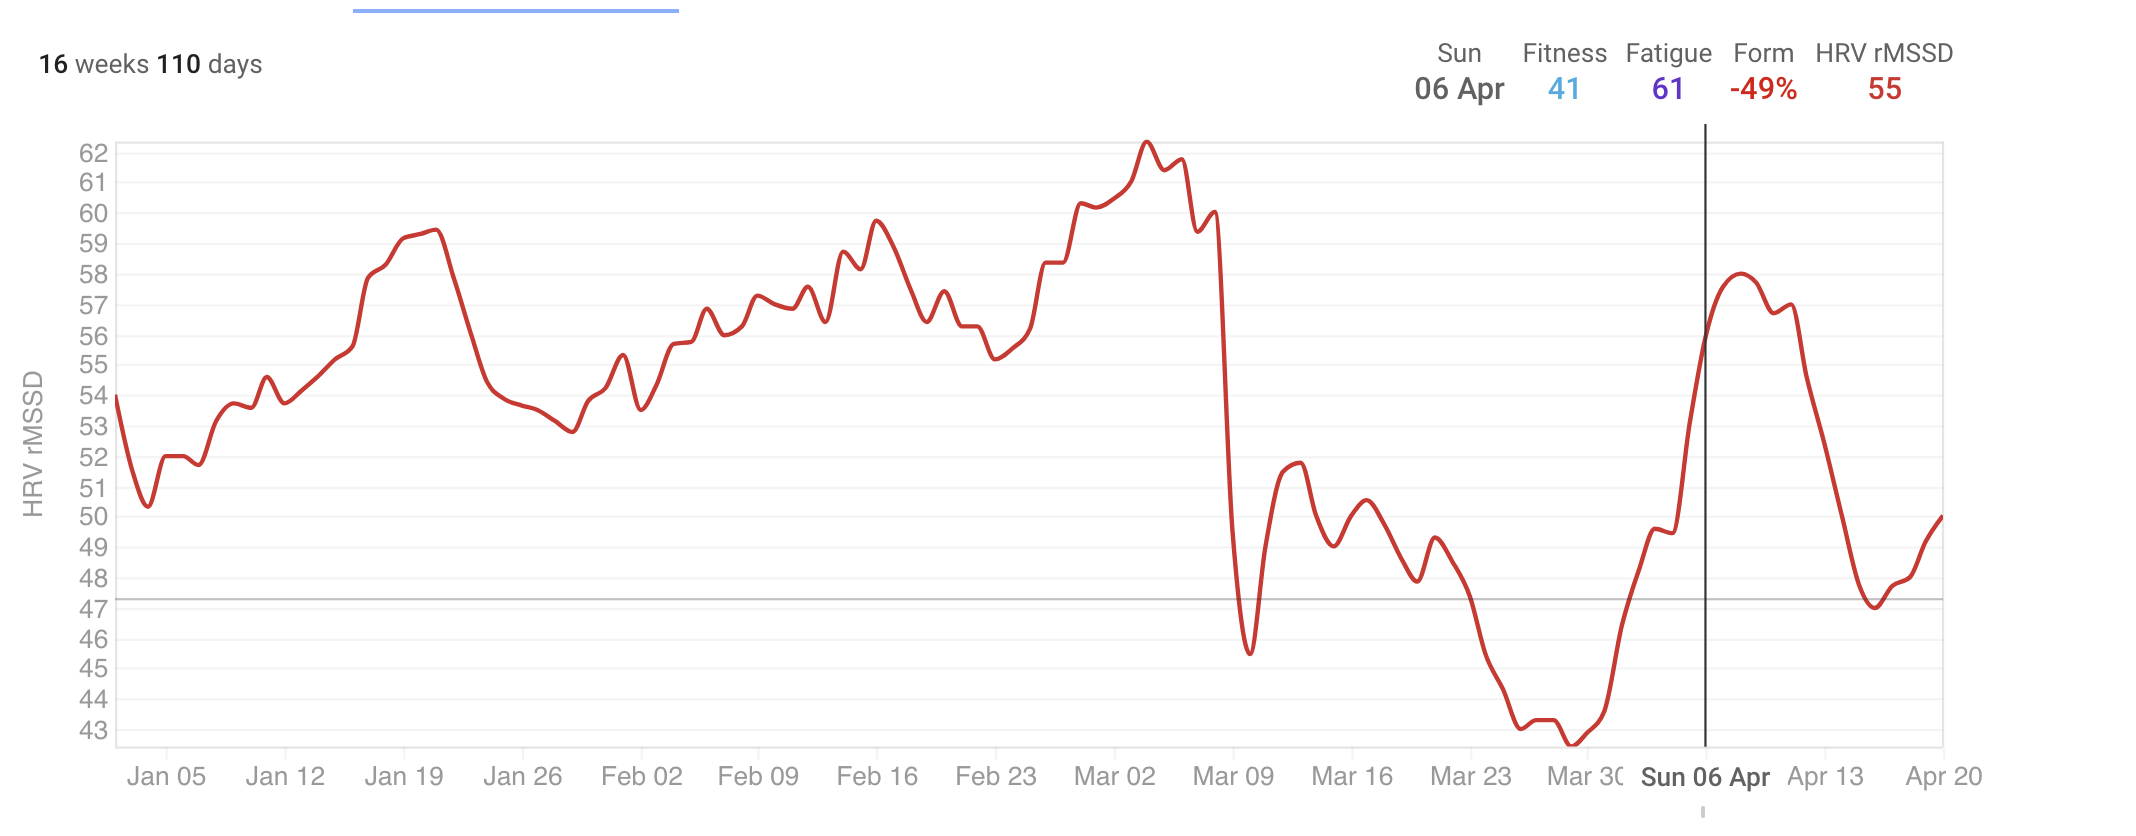
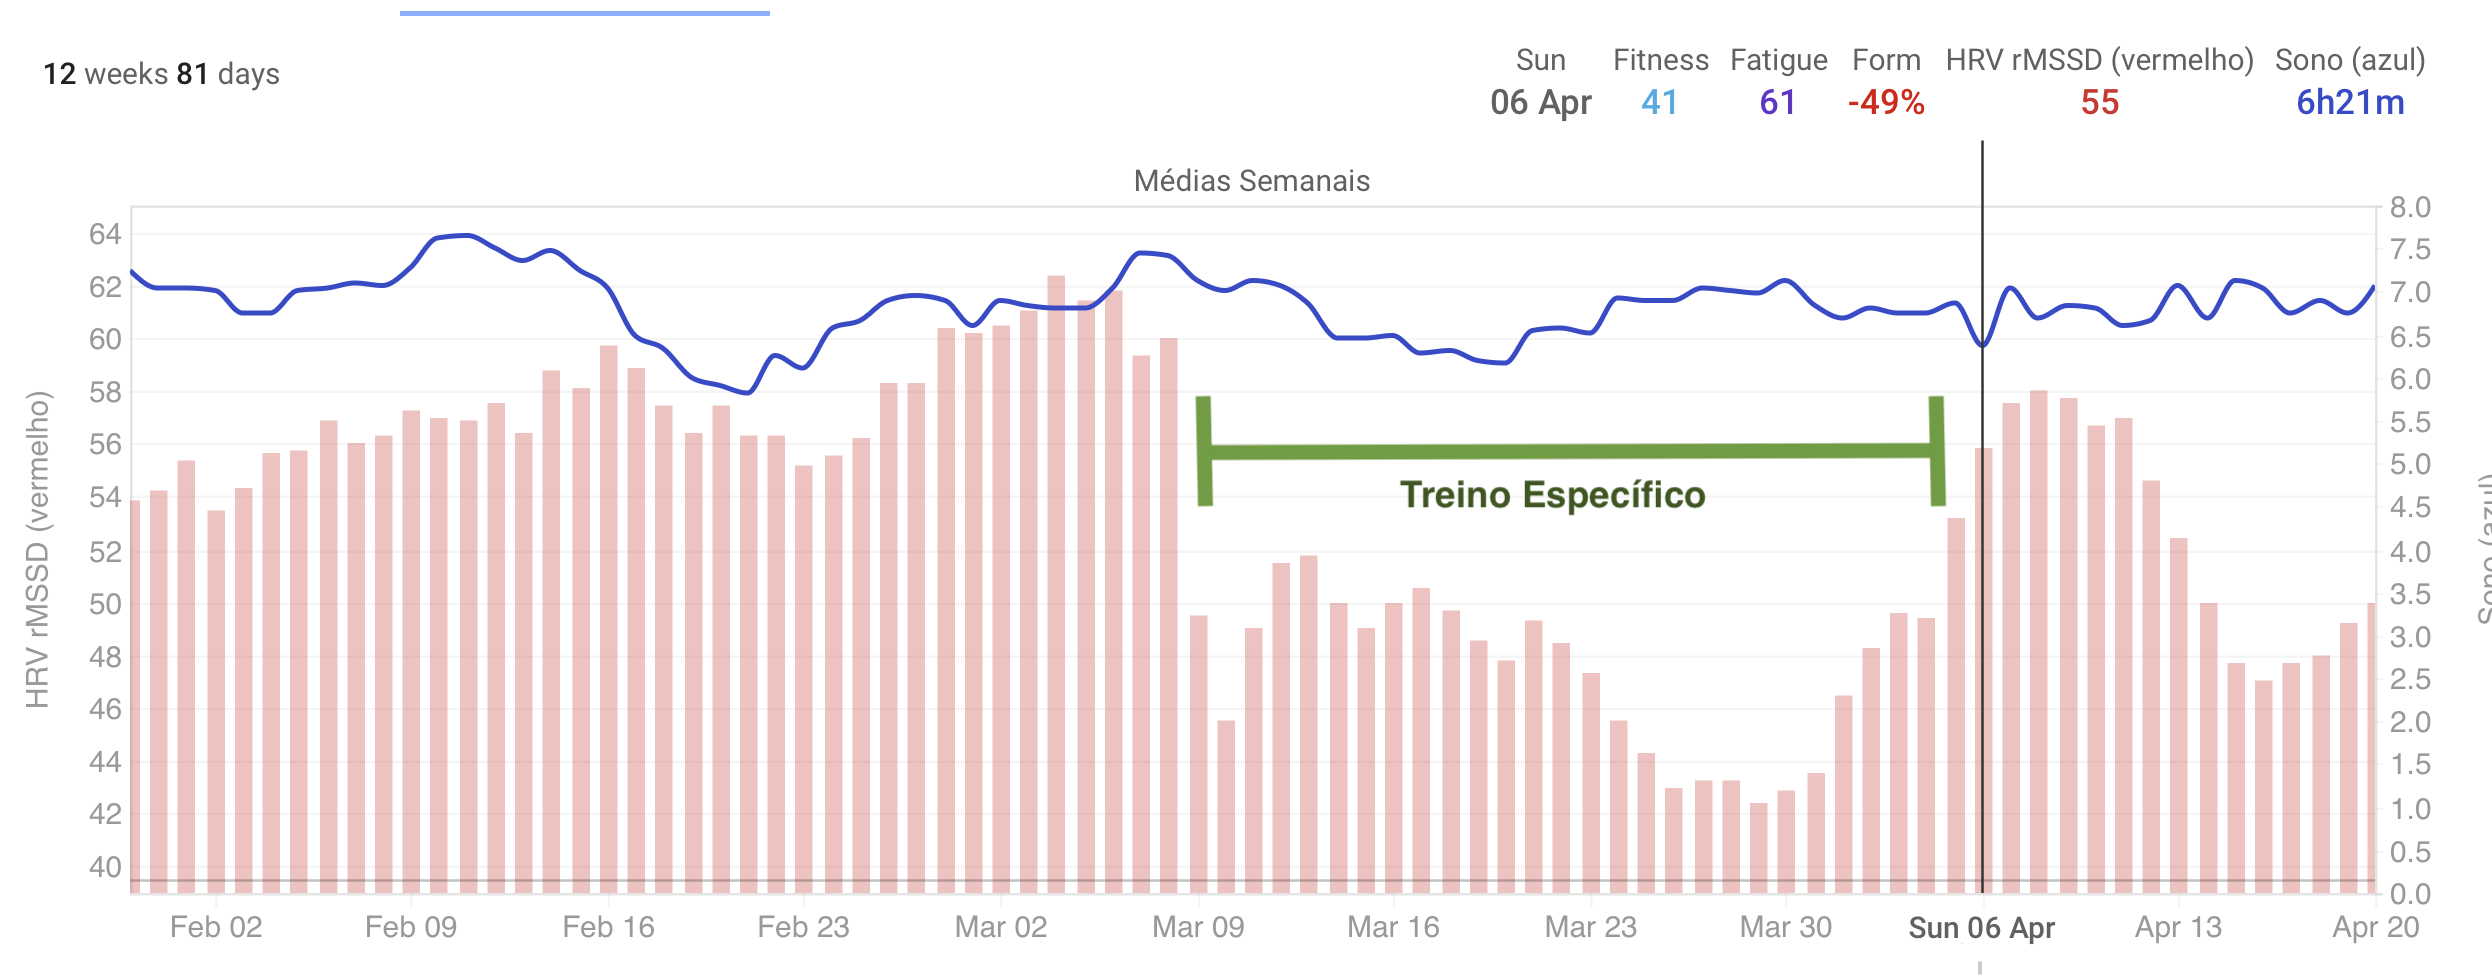
sync

diff --git a/content/posts/retrospectiva-maratona-sp.md b/content/posts/retrospectiva-maratona-sp.md
@@ -67,13 +67,13 @@ muito foi executar **todos** os meus 3KM de aquecimentos e alguns treinos
 inteiros de rodagens em uma subida próxima do Parque Villa Lobos.
 
 <figure>
-<img src="/rua_bagiru.jpeg" width="800" height="500">
+<img src="/diario-corrida/rua_bagiru.jpeg" width="800" height="500">
 </figure>
 
 Isso me permitiu acumular uma elevação bem considerável durante o ciclo.
 
 <figure>
-<img src="/climbing.png" width="800" height="400">
+<img src="/diario-corrida/climbing.png" width="800" height="400">
 </figure>
 
 Fazendo o gráfico acima percebi uma coincidência interessante. A elevação
@@ -142,15 +142,56 @@ A prova foi dia 6 de abril e logo depois, meu prêmio chegou.. hehe bastante din
 
 ## Sono
 
+Eu tenho quadros de insônia com frequência, porém durante o ciclo eu dormir
+razoavelmente bem. Foi uma média entre 6 horas e meia e 7 horas de sono por
+semana. Uma parte consideravel disso é devido ao sono do sabádo para o domingo.
+
 <figure>
-<img src="/sono.png" width="800" height="400">
+<img src="/diario-corrida/sono.png" width="900" height="300">
 </figure>
+
+Mas o interessante é que não houve nenhuma alteração significativa no padrão de sono durante todas as 12 semanas de dados que tenho.
+
+Vou falar um pouco sobre a métrica de rMSSD que cai abruptamente durante a fase de treino específico.
 
 ### HRV rMSSD
 
+Encontrei por acaso o app [HRV4Training](https://www.hrv4training.com/) e como
+bom geek por números me interessei pela história. Existe uma vasta literatura
+academica sobre o uso de HRV para medir stress no corpo e a medida padrão
+difundida na literatura é o rMSSD que é uma medida para capturar a variação
+entre cada batimento cardíaco.
+
+Existe um guia mais profundo [aqui](https://www.hrv4training.com/quickstart-guide.html) explicando como utilizar e interpretar essas medidas.
+
+Apesar de ter o HRV4Training, eu não fui muito afundo no app e nem no uso dos dados no site deles, então as medidas que tenho são do COROS e representam o HRV medido durante a noite, ou seja, reflete o estado que meu corpo estava enquanto se recuperava das porradas do dia anterior. :)
+
 <figure>
-<img src="/hrv.png" width="800" height="400">
+<img src="/diaro-corrida/hrv.png" width="800" height="300">
 </figure>
+
+Como interpretar os dados acima? Basicamente, um decréscimo no rMSSD significa que não estamos recuperados o suficiente ainda, o nível de stress está muito alto. Quando isso ocorre, o HRV4Training recomenda para maneirar durante o dia ou realmente descansar.
+
+Esses dados acima são médias móveis para facilitar a visualização, então contém um pouco de delay com relação ao que estava ocorrendo durante os treinos.
+
+Interessante notar que a primeira queda no rMSSD foi em Fevereiro 16th e talvez
+esteja associada a diminuição nas horas de sono daquelas semanas como mostra a linha azul do gráfico.
+
+Porém o mais interessante é a depressão durante a fase específica dos treinos.
+Bem significativa a queda no parametro. Condiz bem com a realidade da época,
+essa fase eu estava já bem cansado dos volumes altos e iniciando os treinos de
+intensidade.
+
+Existe um estudo de caso no site do HRV4Training sobre queda no rMSSD devido a acréscimo na carga de treino. Vamos ver se essa correlação faz sentido aqui.
+
+<figure>
+<img src="/diario-corrida/carga_rmssd.png" width="800" height="300">
+</figure>
+
+Esse gráfico são as médias semanais, diferente da média móvel acima, e de fato é possível observar o aumento da carga de treino quando o rMSSD cai em Março.
+
+Para o próximo ciclo pretendo utilizar o app HRV4Training e ver as métricas e sugestões diárias que ele vai reportar.
+
 
 ## Fitness .. o que realmente importa :)
 
